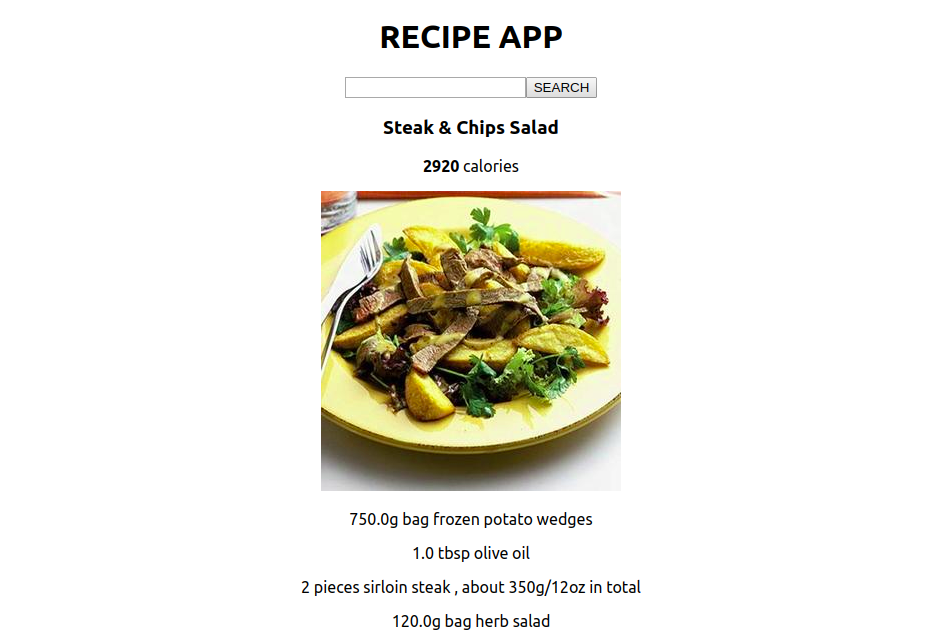
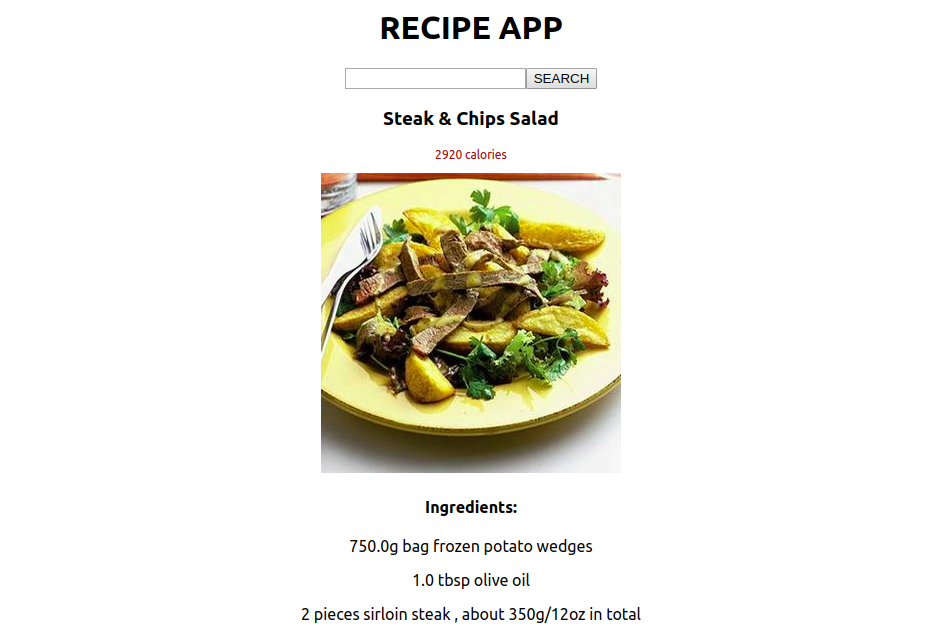
feat(Recipe): reorder/restyle recipe component

Changed region(s): [[0.3049, 0.03, 0.6709, 0.989]]

diff --git a/src/App.css b/src/App.css
@@ -10,3 +10,8 @@
     width: 50%;
   }
 }
+
+.Highlight {
+  color: brown;
+  font-size: 12px;
+}
